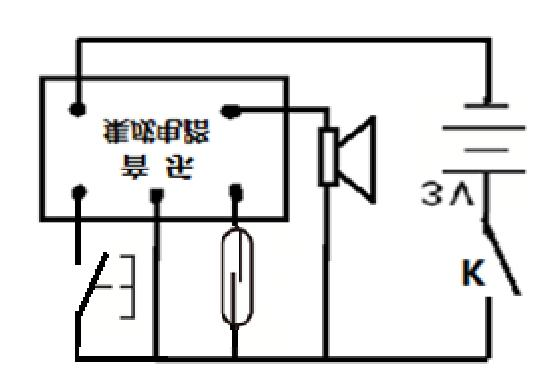
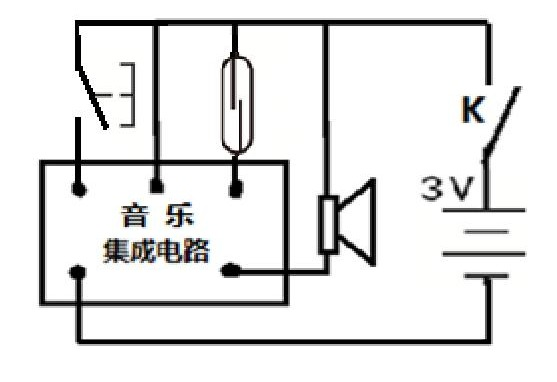
fix: 修正 15 张上下翻转的电路图（PDF 负高度变换矩阵）
pdftohtml XML 中 17 个负高度嵌入图未被 pdfimages 应用翻转变换，
提取出来是颠倒的。提取脚本按变换矩阵自动翻回（Pillow），
修正题号：7,10,12,14,15,16,17,18,24,34,37,41,42,53,55。
q38 经数据与视觉双重验证本就正向，无需处理。

Changed region(s): [[0.061, 0.0288, 0.8851, 0.9503], [0.7325, 0.2016, 0.9461, 0.7775]]

diff --git a/tools/extract_circuits.py b/tools/extract_circuits.py
@@ -89,9 +89,13 @@ def parse_pdf(pdf: Path) -> list:
                 if content:
                     texts.append({"top": int(el.get("top")), "left": int(el.get("left")), "col": col, "text": content})
             elif el.tag == "image":
+                h = int(el.get("height"))
                 images.append({
                     "top": int(el.get("top")), "col": col,
-                    "w": int(el.get("width")), "h": int(el.get("height")),
+                    "w": int(el.get("width")), "h": h,
+                    # PDF 变换矩阵翻转：负高度=上下颠倒、负宽度=左右镜像，
+                    # pdfimages 提取的是未应用变换的原始图，需要翻回来
+                    "flip_v": h < 0, "flip_h": int(el.get("width")) < 0,
                     "src": el.get("src"),
                 })
         headers = []
@@ -124,6 +128,7 @@ def main() -> None:
     # 图片归属：全文档按 (页, 栏, top) 视作连续栏流（题块可跨页跨栏延伸，
     # 如 q12 的图溢出到下一页栏顶）。顺序遍历，图归属于流中最近的上一个标题。
     qimg = {}
+    flipped = {}  # src -> 最终落盘是否翻转（同题多图时以被选中的为准）
     orphan_srcs = []
     last_header = None
     for page in pages:
@@ -144,6 +149,7 @@ def main() -> None:
                     area = item["w"] * item["h"]
                     if last_header not in qimg or area > qimg[last_header][1]:
                         qimg[last_header] = (item["src"], area)
+                        flipped[item["src"]] = item["flip_v"] or item["flip_h"]
 
     # 文字：每题 = 标题行之后、下一标题行之前的所有 run（同栏、按 top/left 排序）
     texts = {no: [] for no in all_nos}
@@ -155,6 +161,7 @@ def main() -> None:
                 texts[owner].append(ln["text"])
 
     OUT_DIR.mkdir(parents=True, exist_ok=True)
+    flipped_nos = []
     questions = []
     for no in all_nos:
         text = re.sub(r"\s+", "", "".join(texts[no]))
@@ -163,7 +170,12 @@ def main() -> None:
         if src:
             # 存完整可服务路径（页面 <img src> 直接引用），文件名 qNN.jpg
             image = f"assets/circuits/q{no:02d}.jpg"  # 相对 web 根（public/），<img src> 直接引用
-            shutil.copyfile(src, OUT_DIR / Path(image).name)
+            dest = OUT_DIR / Path(image).name
+            if flipped.get(src):
+                flip_image(src, dest)
+                flipped_nos.append(no)
+            else:
+                shutil.copyfile(src, dest)
         questions.append({"id": f"c{no:02d}", "no": no, "text": text, "category": CATEGORY_BY_NO[no], "image": image})
 
     data = {
@@ -178,7 +190,16 @@ def main() -> None:
     with_img = sum(1 for q in questions if q["image"])
     print(f"✅ {out.name}：{len(questions)} 题，配图 {with_img}，无图 {len(questions) - with_img}")
     print(f"   未归属图片 {len(orphan_srcs)} 张；无图题号 {[q['no'] for q in questions if not q['image']]}")
+    print(f"   已翻转修正 {len(flipped_nos)} 张：q{flipped_nos}（PDF 负高度变换）")
     shutil.rmtree(tmp, ignore_errors=True)
+
+
+def flip_image(src: str, dest: Path) -> None:
+    """按 XML 变换矩阵把上下颠倒的图翻回来后保存（本册 PDF 只出现负高度）。"""
+    from PIL import Image, ImageOps
+
+    with Image.open(src) as im:
+        ImageOps.flip(im).save(dest, quality=92)
 
 
 if __name__ == "__main__":
